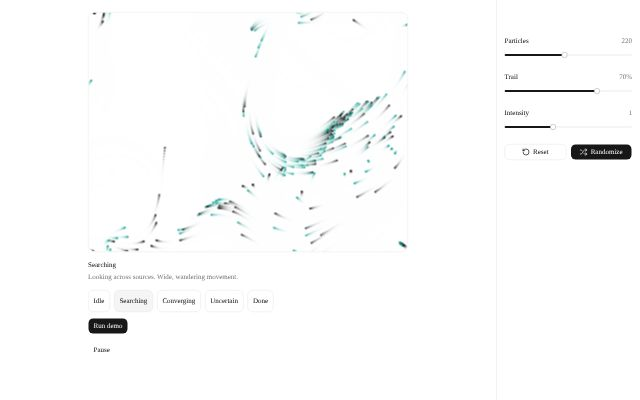
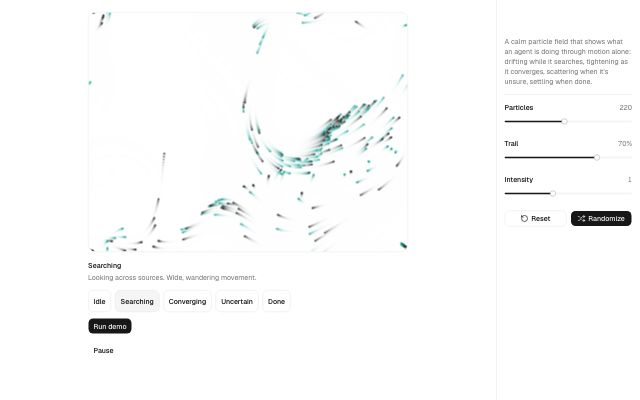
Show prototype description in the sidebar; regenerate all thumbnails
- ControlsLayout reads title/description from metadata.json via PrototypeInfoProvider
  and shows the description at the top of the desktop sidebar (and in the mobile sheet)
- panel is now optional; the six prototypes without controls use ControlsLayout too
- capture thumbnails for the 7 prototypes that had none, refresh the rest
- AGENTS.md: document the sidebar rule and the missing-thumbnail lesson

diff --git a/components/playground/controls/controls-layout.tsx b/components/playground/controls/controls-layout.tsx
@@ -2,6 +2,7 @@
 
 import { SlidersHorizontalIcon } from "lucide-react";
 
+import { usePrototypeInfo } from "@/components/playground/prototype-info";
 import { Button } from "@/components/ui/button";
 import {
   Sheet,
@@ -13,49 +14,68 @@ import {
 } from "@/components/ui/sheet";
 
 /**
- * Subject in a centered column; the panel sits in a sidebar on desktop (never over the
- * subject) and in a bottom sheet behind a floating button on mobile.
+ * Subject in a centered column; a sidebar on desktop shows the prototype's description
+ * (from metadata.json) and the optional control panel, never over the subject. On
+ * mobile the panel moves into a bottom sheet behind a floating button.
  */
 export function ControlsLayout({
   panel,
   children,
 }: {
-  panel: React.ReactNode;
+  panel?: React.ReactNode;
   children: React.ReactNode;
 }) {
+  const description = usePrototypeInfo()?.description;
+
   return (
     <div className="flex flex-1 flex-col lg:flex-row">
-      <div className="mx-auto flex w-full max-w-2xl flex-1 flex-col gap-4 px-4 py-6 pb-24 lg:pb-6">
+      <div
+        className={
+          panel
+            ? "mx-auto flex w-full max-w-2xl flex-1 flex-col gap-4 px-4 py-6 pb-24 lg:pb-6"
+            : "mx-auto flex w-full max-w-2xl flex-1 flex-col gap-4 px-4 py-6"
+        }
+      >
         {children}
       </div>
 
-      <aside data-playground-panel className="hidden w-72 shrink-0 border-l border-border lg:block">
-        <div className="sticky top-[var(--chrome-h,0px)] max-h-[calc(100dvh-var(--chrome-h,0px))] overflow-y-auto p-4">
-          {panel}
-        </div>
-      </aside>
-
-      <Sheet>
-        <SheetTrigger asChild>
-          <Button
-            data-playground-panel
-            size="icon-lg"
-            className="fixed right-4 bottom-[max(1rem,env(safe-area-inset-bottom))] z-30 size-12 rounded-full shadow-lg lg:hidden"
-            aria-label="Controls"
-          >
-            <SlidersHorizontalIcon />
-          </Button>
-        </SheetTrigger>
-        <SheetContent side="bottom" className="max-h-[70dvh] rounded-t-xl lg:hidden">
-          <SheetHeader className="pb-0">
-            <SheetTitle>Controls</SheetTitle>
-            <SheetDescription className="sr-only">Adjust the parameters</SheetDescription>
-          </SheetHeader>
-          <div className="overflow-y-auto px-4 pb-[max(1rem,env(safe-area-inset-bottom))]">
+      {(panel || description) && (
+        <aside data-playground-panel className="hidden w-72 shrink-0 border-l border-border lg:block">
+          <div className="sticky top-[var(--chrome-h,0px)] flex max-h-[calc(100dvh-var(--chrome-h,0px))] flex-col gap-4 overflow-y-auto p-4">
+            {description && (
+              <p className="text-sm text-muted-foreground">{description}</p>
+            )}
+            {description && panel && <div className="border-t border-border" />}
             {panel}
           </div>
-        </SheetContent>
-      </Sheet>
+        </aside>
+      )}
+
+      {panel && (
+        <Sheet>
+          <SheetTrigger asChild>
+            <Button
+              data-playground-panel
+              size="icon-lg"
+              className="fixed right-4 bottom-[max(1rem,env(safe-area-inset-bottom))] z-30 size-12 rounded-full shadow-lg lg:hidden"
+              aria-label="Controls"
+            >
+              <SlidersHorizontalIcon />
+            </Button>
+          </SheetTrigger>
+          <SheetContent side="bottom" className="max-h-[70dvh] rounded-t-xl lg:hidden">
+            <SheetHeader className="pb-0">
+              <SheetTitle>Controls</SheetTitle>
+              <SheetDescription className={description ? undefined : "sr-only"}>
+                {description ?? "Adjust the parameters"}
+              </SheetDescription>
+            </SheetHeader>
+            <div className="overflow-y-auto px-4 pb-[max(1rem,env(safe-area-inset-bottom))]">
+              {panel}
+            </div>
+          </SheetContent>
+        </Sheet>
+      )}
     </div>
   );
 }

diff --git a/app/p/[slug]/page.tsx b/app/p/[slug]/page.tsx
@@ -1,6 +1,7 @@
 import type { Metadata } from "next";
 import { notFound } from "next/navigation";
 
+import { PrototypeInfoProvider } from "@/components/playground/prototype-info";
 import { loadPrototypePage } from "@/lib/load-prototype";
 import { getPrototype, getPublicPrototypes } from "@/lib/prototypes";
 import { siteUrl } from "@/lib/site-url";
@@ -42,12 +43,16 @@ export async function generateMetadata({ params }: PageProps<"/p/[slug]">): Prom
 
 export default async function PublicPrototypePage({ params }: PageProps<"/p/[slug]">) {
   const { slug } = await params;
-  if (!getPublic(slug)) notFound();
+  const prototype = getPublic(slug);
+  if (!prototype) notFound();
 
   const Prototype = await loadPrototypePage(slug);
+  const info = { [slug]: { title: prototype.title, description: prototype.description } };
   return (
-    <div className="flex flex-1 flex-col">
-      <Prototype />
-    </div>
+    <PrototypeInfoProvider prototypes={info}>
+      <div className="flex flex-1 flex-col">
+        <Prototype />
+      </div>
+    </PrototypeInfoProvider>
   );
 }

diff --git a/components/prototype-header.tsx b/components/prototype-header.tsx
@@ -2,14 +2,14 @@
 
 import { ArrowLeftIcon } from "lucide-react";
 import Link from "next/link";
-import { usePathname } from "next/navigation";
 
+import { usePrototypeInfo } from "@/components/playground/prototype-info";
 import { ThemeToggle } from "@/components/theme-toggle";
 import { Button } from "@/components/ui/button";
 
 /** Slim bar above every private prototype. Hidden in thumbnail captures. */
-export function PrototypeHeader({ titles }: { titles: Record<string, string> }) {
-  const slug = usePathname().split("/")[2] ?? "";
+export function PrototypeHeader() {
+  const info = usePrototypeInfo();
 
   return (
     <header
@@ -21,7 +21,7 @@ export function PrototypeHeader({ titles }: { titles: Record<string, string> }) 
           <ArrowLeftIcon />
         </Link>
       </Button>
-      <span className="flex-1 truncate text-sm font-medium">{titles[slug] ?? ""}</span>
+      <span className="flex-1 truncate text-sm font-medium">{info?.title ?? ""}</span>
       <ThemeToggle />
     </header>
   );

diff --git a/components/playground/prototype-info.tsx b/components/playground/prototype-info.tsx
@@ -1,0 +1,26 @@
+"use client";
+
+import { usePathname } from "next/navigation";
+import { createContext, useContext } from "react";
+
+export type PrototypeInfo = { title: string; description: string };
+
+const PrototypeInfoContext = createContext<Record<string, PrototypeInfo>>({});
+
+/** Makes title + description from metadata.json available to shared chrome. */
+export function PrototypeInfoProvider({
+  prototypes,
+  children,
+}: {
+  prototypes: Record<string, PrototypeInfo>;
+  children: React.ReactNode;
+}) {
+  return <PrototypeInfoContext value={prototypes}>{children}</PrototypeInfoContext>;
+}
+
+/** Info for the prototype at the current URL (/prototypes/<slug> or /p/<slug>). */
+export function usePrototypeInfo(): PrototypeInfo | null {
+  const prototypes = useContext(PrototypeInfoContext);
+  const slug = usePathname().split("/")[2] ?? "";
+  return prototypes[slug] ?? null;
+}

diff --git a/app/prototypes/interject-stream/interject-stream.tsx b/app/prototypes/interject-stream/interject-stream.tsx
@@ -1,5 +1,6 @@
 "use client";
 
+import { ControlsLayout } from "@/components/playground/controls";
 import { useEffect, useState } from "react";
 
 import { Collapse } from "@/components/playground/collapse";
@@ -65,7 +66,7 @@ export function InterjectStream() {
   const discarded = cut ? BASE.slice(cut.clause + 1) : [];
 
   return (
-    <main className="mx-auto flex w-full max-w-2xl flex-col gap-4 px-4 py-6">
+    <ControlsLayout>
       <header className="flex flex-col gap-1">
         <h1 className="text-lg font-medium">{QUESTION}</h1>
         <p className="text-sm text-muted-foreground">Tap any sentence to pause and redirect from there.</p>
@@ -102,6 +103,6 @@ export function InterjectStream() {
       )}
 
       {picked !== null && <RedirectBar onChoose={redirect} onCancel={() => setPicked(null)} />}
-    </main>
+    </ControlsLayout>
   );
 }

diff --git a/app/prototypes/provenance-chips/provenance-chips.tsx b/app/prototypes/provenance-chips/provenance-chips.tsx
@@ -1,5 +1,6 @@
 "use client";
 
+import { ControlsLayout } from "@/components/playground/controls";
 import { useEffect, useRef, useState } from "react";
 
 import { Button } from "@/components/ui/button";
@@ -48,7 +49,7 @@ export function ProvenanceChips() {
   const conflicts = conflictCount(states);
 
   return (
-    <main className="mx-auto flex w-full max-w-2xl flex-col gap-4 px-4 py-6">
+    <ControlsLayout>
       <header className="flex flex-col gap-1">
         <h1 className="text-lg font-medium">{ACCOUNT} renewal brief</h1>
         <p className="text-sm text-muted-foreground">
@@ -94,6 +95,6 @@ export function ProvenanceChips() {
       <Button variant="outline" className="self-start" onClick={() => setStates(initialStates())}>
         Reset
       </Button>
-    </main>
+    </ControlsLayout>
   );
 }

diff --git a/app/prototypes/layout.tsx b/app/prototypes/layout.tsx
@@ -1,13 +1,16 @@
+import { PrototypeInfoProvider } from "@/components/playground/prototype-info";
 import { PrototypeHeader } from "@/components/prototype-header";
 import { getAllPrototypes } from "@/lib/prototypes";
 
 export default function PrototypesLayout({ children }: LayoutProps<"/prototypes">) {
-  const titles = Object.fromEntries(getAllPrototypes().map((p) => [p.slug, p.title]));
+  const prototypes = Object.fromEntries(
+    getAllPrototypes().map((p) => [p.slug, { title: p.title, description: p.description }]),
+  );
 
   return (
-    <>
-      <PrototypeHeader titles={titles} />
+    <PrototypeInfoProvider prototypes={prototypes}>
+      <PrototypeHeader />
       <div className="flex flex-1 flex-col [--chrome-h:3.5rem]">{children}</div>
-    </>
+    </PrototypeInfoProvider>
   );
 }

diff --git a/app/prototypes/run-timeline-fork/run-timeline-fork.tsx b/app/prototypes/run-timeline-fork/run-timeline-fork.tsx
@@ -1,5 +1,6 @@
 "use client";
 
+import { ControlsLayout } from "@/components/playground/controls";
 import { useEffect, useState } from "react";
 
 import { Collapse } from "@/components/playground/collapse";
@@ -64,7 +65,7 @@ export function RunTimelineFork() {
   const parent = runs.find((r) => r.id === active.parentId);
 
   return (
-    <main className="mx-auto flex w-full max-w-2xl flex-col gap-4 px-4 py-6">
+    <ControlsLayout>
       <header className="flex flex-col gap-1">
         <h1 className="text-lg font-medium">{TASK}</h1>
         <p className="text-sm text-muted-foreground">
@@ -147,6 +148,6 @@ export function RunTimelineFork() {
       </ol>
 
       <AnswerCard run={active} parent={parent} ready={cursor >= total} />
-    </main>
+    </ControlsLayout>
   );
 }

diff --git a/app/prototypes/permission-ladder/permission-ladder.tsx b/app/prototypes/permission-ladder/permission-ladder.tsx
@@ -1,5 +1,6 @@
 "use client";
 
+import { ControlsLayout } from "@/components/playground/controls";
 import { useEffect, useState } from "react";
 
 import { Collapse } from "@/components/playground/collapse";
@@ -66,7 +67,7 @@ export function PermissionLadder() {
   }
 
   return (
-    <main className="mx-auto flex w-full max-w-2xl flex-col gap-4 px-4 py-6">
+    <ControlsLayout>
       <header className="flex flex-col gap-1">
         <h1 className="text-lg font-medium">{TASK}</h1>
         <p className="text-sm text-muted-foreground">
@@ -87,6 +88,6 @@ export function PermissionLadder() {
       )}
 
       <AuditList grants={grants} log={log} onRevoke={revoke} />
-    </main>
+    </ControlsLayout>
   );
 }

diff --git a/app/prototypes/changeset-review/changeset-review.tsx b/app/prototypes/changeset-review/changeset-review.tsx
@@ -1,5 +1,6 @@
 "use client";
 
+import { ControlsLayout } from "@/components/playground/controls";
 import { useEffect, useRef, useState } from "react";
 import { toast } from "sonner";
 
@@ -63,7 +64,7 @@ export function ChangesetReview() {
   }
 
   return (
-    <main className="mx-auto flex w-full max-w-2xl flex-col gap-4 px-4 py-6">
+    <ControlsLayout>
       <header className="flex flex-col gap-1">
         <p className="text-sm text-muted-foreground">You asked</p>
         <h1 className="text-lg font-medium">{REQUEST}</h1>
@@ -95,6 +96,6 @@ export function ChangesetReview() {
         onApply={apply}
         onReset={reset}
       />
-    </main>
+    </ControlsLayout>
   );
 }

diff --git a/app/prototypes/context-tray/context-tray.tsx b/app/prototypes/context-tray/context-tray.tsx
@@ -1,5 +1,6 @@
 "use client";
 
+import { ControlsLayout } from "@/components/playground/controls";
 import { useState } from "react";
 
 import { Answer } from "./answer";
@@ -21,7 +22,7 @@ export function ContextTray() {
   }
 
   return (
-    <main className="mx-auto flex w-full max-w-2xl flex-col gap-4 px-4 py-6">
+    <ControlsLayout>
       <header className="flex flex-col gap-1">
         <h1 className="text-lg font-medium">{QUESTION}</h1>
         <p className="text-sm text-muted-foreground">
@@ -36,6 +37,6 @@ export function ContextTray() {
       </div>
 
       <Answer active={active} verdict={verdictFor(active)} />
-    </main>
+    </ControlsLayout>
   );
 }

diff --git a/AGENTS.md b/AGENTS.md
@@ -187,7 +187,8 @@ return (
 ```
 
 - You get persistence (try/catch, loaded on mount, namespaced), Reset, and **Randomize** for free. Every panel must have both Reset and Randomize; `ControlPanel` always renders them.
-- `ControlsLayout` places the panel in a sidebar on desktop (`lg:`) so it never covers the subject, and in a bottom sheet behind a floating button on mobile.
+- `ControlsLayout` places the panel in a sidebar on desktop (`lg:`) so it never covers the subject, and in a bottom sheet behind a floating button on mobile. The sidebar also shows the prototype's `description` from `metadata.json` automatically, so keep descriptions to one or two plain sentences.
+- Every prototype wraps its content in `ControlsLayout`, even without controls (`<ControlsLayout>…</ControlsLayout>`, no `panel`), so the description sidebar is consistent. Don't add your own outer `max-w-2xl` column; `ControlsLayout` provides it.
 - Need a control type that doesn't exist? Add it to `components/playground/controls/` (schema + field + randomize + sanitize) rather than hand-rolling a one-off panel.
 
 ### Mobile first
@@ -282,6 +283,7 @@ WebGL/canvas libraries that touch `window` at import time: load them from a `"us
 - **`asChild` triggers drop `data-slot="button"`.** `DropdownMenuTrigger asChild` + `Button` renders `data-slot="dropdown-menu-trigger"`. Style or query buttons by `data-variant`/`data-size`, not only `data-slot`.
 - **OG video URLs must be absolute.** `metadataBase` absolutizes `og:image` but not `og:video`. `/p/[slug]` builds absolute URLs with `siteUrl()`.
 - **Playwright "Executable doesn't exist".** The browser build doesn't match the installed `playwright`. Run `npx playwright install chromium`.
+- **Prototypes merged without thumbnails.** `npm run validate` only *warns* about missing thumbnails, so 7 PRs passed CI and landed showing "No preview yet". Treat that warning as blocking: run `npm run thumbnails -- --slug <slug>` before opening the PR.
 - **Canvas trails leave a faint residue** when fading with a low-alpha fill (8-bit rounding never reaches the background). Fine for effects; if a perfectly clean background matters, clear fully and redraw instead.
 
 <!-- BEGIN:nextjs-agent-rules -->
